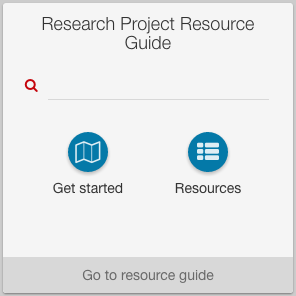
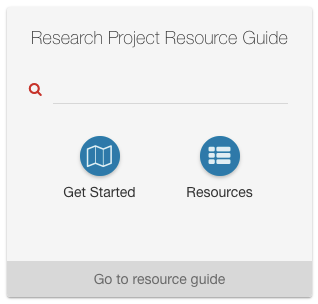
docs: title case not sentence case in search-with-links widgets

diff --git a/docs/make-a-widget.md b/docs/make-a-widget.md
@@ -188,7 +188,7 @@ This provides a more usable click surface, a simpler and cleaner user experience
       "launchText":"Go to resource guide",
       "links":[
         {
-          "title":"Get started",
+          "title":"Get Started",
           "href":"https://rprg.wisc.edu/phases/initiate/",
           "icon":"fa-map-o",
           "target":"_blank"
@@ -207,7 +207,7 @@ This provides a more usable click surface, a simpler and cleaner user experience
 
 #### Guidance
 
-+ Use sentence case in the titles of the links.
++ Use title case in the titles of the links.
 
 ### RSS widget
 

diff --git a/CHANGELOG.md b/CHANGELOG.md
@@ -6,7 +6,7 @@ and this project adheres to [Semantic Versioning](http://semver.org/spec/v2.0.0.
 
 ## [Unreleased][]
 
-* Recommend title case rather than sentence case for links in list-of-links widgets
+* Recommend title case rather than sentence case for links in list-of-links and search-with-links widgets
 
 ## [6.1.0][] - 2017-10-18
 
